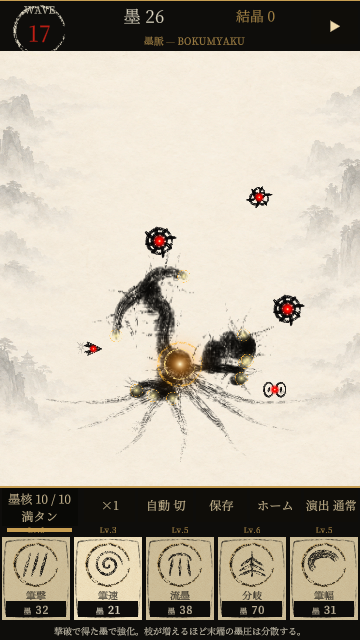
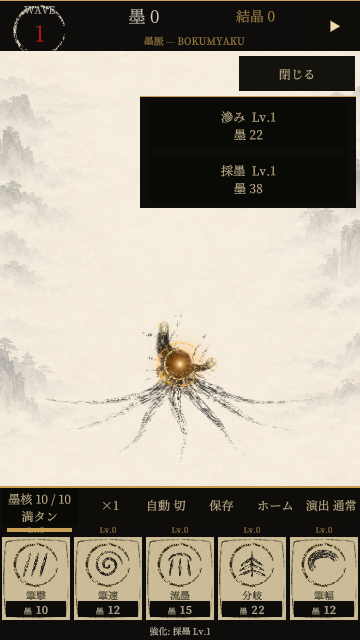
Add enemy satellite cores and restore secondary battle upgrades

diff --git a/UnitySandbox/Assets/BokumyakuPrototype/Presentation/InkBattleWorld.cs b/UnitySandbox/Assets/BokumyakuPrototype/Presentation/InkBattleWorld.cs
@@ -7,7 +7,7 @@ namespace Bokumyaku.Presentation
  // Presentation owns interpolation and VFX clocks; never writes simulation state.
  public sealed class InkBattleWorld : IDisposable
  {
-  sealed class EnemyView { public EnemyState state; public Vector2 previous,current; public double hp; public SpriteRenderer body,eye; public float hit,death; public bool dying,drawn; }
+  sealed class EnemyView { public EnemyState state; public Vector2 previous,current; public double hp; public SpriteRenderer body,eye; public SpriteRenderer[] buds; public float hit,death; public bool dying,drawn; }
   sealed class Effect { public SpriteRenderer renderer; public Vector2 a,b; public float age,life,width; public int type; public Color tint; public bool flash; }
   readonly GameObject root; readonly Camera camera; readonly Material material; readonly MaterialPropertyBlock block=new MaterialPropertyBlock();
   readonly Dictionary<int,EnemyView> enemies=new Dictionary<int,EnemyView>(); readonly List<int> remove=new List<int>();
@@ -47,9 +47,10 @@ namespace Bokumyaku.Presentation
   void Properties(SpriteRenderer r,float hit,float dissolve,float wobble,float phase,bool reduced){block.Clear();block.SetFloat("_Hit",hit);block.SetFloat("_Dissolve",dissolve);block.SetFloat("_Wobble",wobble);block.SetFloat("_Phase",phase);block.SetFloat("_ReducedMotion",reduced?1:0);r.SetPropertyBlock(block);}
   void Release(SpriteRenderer r){r.gameObject.SetActive(false);r.SetPropertyBlock(null);r.transform.localRotation=Quaternion.identity;pool.Push(r);}
   SpriteRenderer Rent(Sprite s,int order){var r=pool.Count>0?pool.Pop():Create(s,order);r.sprite=s;r.enabled=true;r.sortingOrder=order;r.color=Color.white;r.gameObject.SetActive(true);return r;}
+  void ReleaseEnemy(EnemyView v){Release(v.body);Release(v.eye);if(v.buds!=null)foreach(var bud in v.buds)Release(bud);}
   public void Reset(RunSimulator run)
   {
-   foreach(var e in enemies.Values){Release(e.body);Release(e.eye);}enemies.Clear();foreach(var e in effects)Release(e.renderer);effects.Clear();before.Clear();boundRun=run;freeze=shake=0;Deaths=HitFlashes=EffectsCreated=InterpolatedFrames=0;
+   foreach(var e in enemies.Values)ReleaseEnemy(e);enemies.Clear();foreach(var e in effects)Release(e.renderer);effects.Clear();before.Clear();boundRun=run;freeze=shake=0;Deaths=HitFlashes=EffectsCreated=InterpolatedFrames=0;
   }
   public void BeforeTick(RunSimulator run){if(boundRun!=run)Reset(run);before.Clear();foreach(var e in run.Enemies)before.Add(e);foreach(var v in enemies.Values)if(!v.dying)v.previous=v.current;}
   public void AfterTick(RunSimulator run,bool reduced)
@@ -64,11 +65,11 @@ namespace Bokumyaku.Presentation
    {
     liveIds.Add(e.Id);
     Vector2 p=new Vector2((float)e.X,(float)e.Y);
-    if(!enemies.TryGetValue(e.Id,out var v)){v=new EnemyView{state=e,previous=p,current=p,hp=e.Hp,body=Rent(enemySprites[(int)e.Kind],4),eye=Rent(ember,5)};enemies.Add(e.Id,v);}
+    if(!enemies.TryGetValue(e.Id,out var v)){v=new EnemyView{state=e,previous=p,current=p,hp=e.Hp,body=Rent(enemySprites[(int)e.Kind],4),eye=Rent(ember,5)};if(e.Kind==EnemyKind.Splitter||e.Kind==EnemyKind.Boss){v.buds=new SpriteRenderer[3];for(int k=0;k<3;k++)v.buds[k]=Rent(ember,5);}enemies.Add(e.Id,v);}
     if(e.Hp<v.hp){v.hit=.13f;HitFlashes++;}v.hp=e.Hp;v.current=p;v.state=e;
    }
    remove.Clear();foreach(var pair in enemies)if(!pair.Value.dying&&!liveIds.Contains(pair.Key))remove.Add(pair.Key);
-   foreach(int id in remove){Release(enemies[id].body);Release(enemies[id].eye);enemies.Remove(id);}
+   foreach(int id in remove){ReleaseEnemy(enemies[id]);enemies.Remove(id);}
    foreach(var hit in run.Attacks)Attack(hit,run,reduced);
   }
 
@@ -126,9 +127,21 @@ namespace Bokumyaku.Presentation
     if(!frozen||!v.drawn){Size(v.body,p,size,size);Size(v.eye,p,size*.38f,size*.38f);
      if(v.state.Kind==EnemyKind.Fast){var direction=Project(v.current)-Project(v.previous);if(direction.sqrMagnitude>.000001f)v.body.transform.localRotation=Quaternion.Euler(0,0,Mathf.Atan2(direction.y,direction.x)*Mathf.Rad2Deg);}v.drawn=true;}v.body.color=new Color(.025f,.02f,.02f);Properties(v.body,v.hit/.13f,v.death/.45f,reduced?0:.45f,pair.Key*.73f,reduced);
     v.eye.color=new Color(1,1,1,1-v.death/.45f);Properties(v.eye,0,v.death/.45f,0,0,reduced);
+    if(v.buds!=null)
+    {
+     // Texture-local bud positions match the procedural lobe/branch motif.
+     var bodyCenter=(Vector2)v.body.transform.localPosition;
+     for(int k=0;k<3;k++)
+     {
+      bool boss=v.state.Kind==EnemyKind.Boss;float angle=k*Mathf.PI*2/3+(boss?.30f:.4f);
+      float radius=(boss?25f:23f)/96f*size;
+      Size(v.buds[k],bodyCenter+new Vector2(Mathf.Cos(angle),Mathf.Sin(angle))*radius,size*.13f,size*.13f);
+      v.buds[k].color=v.eye.color;Properties(v.buds[k],0,v.death/.45f,0,0,reduced);
+     }
+    }
     if(!paused&&!v.dying&&alpha>0&&alpha<1&&v.previous!=v.current)InterpolatedFrames++;
    }
-   foreach(int id in remove){Release(enemies[id].body);Release(enemies[id].eye);enemies.Remove(id);}
+   foreach(int id in remove){ReleaseEnemy(enemies[id]);enemies.Remove(id);}
    for(int i=effects.Count-1;i>=0;i--)
    {
     var e=effects[i];e.renderer.enabled=!(reduced&&e.flash);e.age+=dt;if(e.age>=e.life){Release(e.renderer);effects.RemoveAt(i);continue;}
@@ -142,6 +155,7 @@ namespace Bokumyaku.Presentation
   public void Dispose(){foreach(var s in ownedSprites)if(s!=null)UnityEngine.Object.Destroy(s);UnityEngine.Object.Destroy(emberTexture);UnityEngine.Object.Destroy(material);UnityEngine.Object.Destroy(root);}
  }
 }
+
 
 
 

diff --git a/UnitySandbox/Assets/BokumyakuPrototype/Presentation/BokumyakuBattleHud.cs b/UnitySandbox/Assets/BokumyakuPrototype/Presentation/BokumyakuBattleHud.cs
@@ -49,6 +49,13 @@ namespace Bokumyaku.Presentation
         BokumyakuGame game; Canvas canvas; RectTransform safe; TMP_FontAsset font; Font sourceFont;
         GameObject ownedEventSystem, modal; TextMeshProUGUI wave, ink, crystals, hp, notice, speed, pause, auto, motion, result, retryLabel;
         UnityEngine.UI.Button retry,repair; UnityEngine.UI.Image hpFill; float nextRefresh; Rect lastSafe; int lastWidth, lastHeight;
+        UnityEngine.UI.Button extraToggle;
+        readonly UnityEngine.UI.Button[] extraCards = new UnityEngine.UI.Button[2];
+        readonly TextMeshProUGUI[] extraLabels = new TextMeshProUGUI[2];
+        GameObject extraPanel; TextMeshProUGUI extraToggleLabel; bool extraOpen;
+        RunSimulator extraRun;
+        static readonly UpgradeKind[] ExtraKinds = { UpgradeKind.Bleed, UpgradeKind.Harvest };
+        static readonly string[] ExtraNames = { "滲み", "採墨" };
         static readonly string[] Names = { "筆撃", "筆速", "流墨", "分岐", "筆幅" };
 
         // Camera rect uses bottom-left normalized coordinates, matching SafeArea anchors.
@@ -111,6 +118,17 @@ namespace Bokumyaku.Presentation
                 cardLevels[i]=Label(bottom.transform,"Level"+i,i*.2f,.67f,(i+1)*.2f,.77f,11,gold);
             }
             notice=Label(bottom.transform,"Notice",.015f,0,.985f,.12f,11,ivory);
+            // A temporary popover keeps the five primary cards and footer controls reachable.
+            extraToggle=Button(safe,"ExtraUpgrades",.66f,.855f,.99f,.915f,"滲み・採墨",()=>{extraOpen=!extraOpen;Refresh();},out extraToggleLabel);
+            var extra=Panel(safe,"ExtraUpgradePanel",.39f,.675f,.99f,.85f); extraPanel=extra.gameObject;
+            extra.raycastTarget=true;
+            for(int i=0;i<ExtraKinds.Length;i++)
+            {
+                int slot=i;
+                float y=i==0?.51f:.03f;
+                extraCards[i]=Button(extra.transform,"Upgrade"+ExtraKinds[i],.03f,y,.97f,y+.46f,"",()=>{game.BuyUpgrade(ExtraKinds[slot]);Refresh();},out extraLabels[i]);
+            }
+            extraPanel.SetActive(false);
             var veil=BokumyakuUiParts.Panel(safe,"ResultVeil",new Vector2(.06f,.42f),new Vector2(.94f,.69f),black); modal=veil.gameObject;
             result=Label(veil.transform,"Result",.04f,.43f,.96f,.96f,22,ivory);
             retry=Button(veil.transform,"Retry",.05f,.07f,.62f,.4f,"再出撃",()=>game.TryStartRun(unchecked(game.Run.Seed+1)),out retryLabel);
@@ -146,6 +164,7 @@ namespace Bokumyaku.Presentation
             if(game==null)return;
             if(lastSafe!=Screen.safeArea||lastWidth!=Screen.width||lastHeight!=Screen.height)RefreshSafeArea();
             canvas.enabled=game.Page==BokumyakuGame.GamePage.Battle;
+            if(!canvas.enabled && extraOpen){extraOpen=false;extraPanel.SetActive(false);}
             if(canvas.enabled && Time.unscaledTime>=nextRefresh){nextRefresh=Time.unscaledTime+.1f;Refresh();}
         }
         static void Text(TextMeshProUGUI target,string value){if(target.text!=value)target.text=value;}
@@ -163,7 +182,21 @@ namespace Bokumyaku.Presentation
                 cardCosts[i].color=run.RunInk>=cost?ivory:new Color(.84f,.79f,.68f);
                 cards[i].interactable=!game.BattleStorageBlocked&&!game.AwaitingStart&&run.State==RunStatus.Running&&!max&&run.RunInk>=cost;
             }
-            bool ended=run.State!=RunStatus.Running;modal.SetActive(ended||game.AwaitingStart);
+            bool ended=run.State!=RunStatus.Running;
+            if(ended||game.AwaitingStart||run!=extraRun)extraOpen=false;
+            extraRun=run;
+            extraToggle.interactable=!ended&&!game.AwaitingStart&&!game.BattleStorageBlocked;
+            if(!extraToggle.interactable)extraOpen=false;
+            Text(extraToggleLabel,extraOpen?"閉じる":"滲み・採墨");
+            extraPanel.SetActive(extraOpen);
+            for(int i=0;i<ExtraKinds.Length;i++)
+            {
+                var kind=ExtraKinds[i];int level=run.UpgradeLevels[(int)kind],cost=run.UpgradeCost(kind);
+                bool max=level>=run.UpgradeMaxLevel(kind);
+                Text(extraLabels[i],ExtraNames[i]+"  Lv."+level+"\n"+(max?"MAX":"墨 "+cost.ToString("N0")));
+                extraCards[i].interactable=extraToggle.interactable&&!max&&run.RunInk>=cost;
+            }
+            modal.SetActive(ended||game.AwaitingStart);
             if(modal.activeSelf)
             {
                 Text(result,game.AwaitingStart?"一滴から、墨脈を育てる。":"WAVE "+run.CompletedWave+"\n撃破 "+run.Kills+"　結晶 "+run.CrystalsReward);
@@ -178,6 +211,7 @@ namespace Bokumyaku.Presentation
         }
     }
 }
+
 
 
 

diff --git a/scripts/UnityAutomation~/ExtraUpgradeCheck.cs b/scripts/UnityAutomation~/ExtraUpgradeCheck.cs
@@ -1,0 +1,10 @@
+using System;using System.IO;using System.Reflection;using System.Collections.Generic;using UnityEngine;using UnityEngine.EventSystems;using Bokumyaku.Presentation;using Bokumyaku.Simulation;
+public static class ExtraUpgradeCheck{
+ public static object Prepare(){var g=UnityEngine.Object.FindFirstObjectByType<BokumyakuGame>();if(!g.SavePath.Contains("ink-qa-"))throw new Exception("Isolated only");g.SetBuild(BuildPreset.Manual);g.TryStartRun(42);g.SetPaused(true);return "Wait one rendered frame, then Run";}
+ public static object Open(){Click("ExtraUpgrades");return "Wait one frame, then Run";}
+ public static object Run(){var g=UnityEngine.Object.FindFirstObjectByType<BokumyakuGame>();if(!g.SavePath.Contains("ink-qa-"))throw new Exception("Isolated only");var hud=UnityEngine.Object.FindFirstObjectByType<BokumyakuBattleHud>();var refresh=typeof(BokumyakuBattleHud).GetMethod("Refresh",BindingFlags.Instance|BindingFlags.NonPublic);var ink=typeof(RunSimulator).GetProperty("RunInk");ink.SetValue(g.Run,50000);var rows=new List<object>();if(GameObject.Find("UpgradeBleed")==null)throw new Exception("Open ExtraUpgrades and wait one rendered frame before Run");for(int i=5;i<7;i++){refresh.Invoke(hud,null);Canvas.ForceUpdateCanvases();int before=g.Run.UpgradeLevels[i],balance=g.Run.RunInk,cost=g.Run.UpgradeCost((UpgradeKind)i);Click(i==5?"UpgradeBleed":"UpgradeHarvest");rows.Add(new{slot=i,passed=g.Run.UpgradeLevels[i]==before+1&&g.Run.RunInk==balance-cost});}ink.SetValue(g.Run,0);refresh.Invoke(hud,null);int level=g.Run.UpgradeLevels[5];Click("UpgradeBleed");rows.Add(new{slot=5,passed=g.Run.UpgradeLevels[5]==level&&g.Run.RunInk==0});File.WriteAllText(Path.GetFullPath("../docs/evidence/extra-upgrade-check.json"),Newtonsoft.Json.JsonConvert.SerializeObject(rows,Newtonsoft.Json.Formatting.Indented));ScreenCapture.CaptureScreenshot(Path.GetFullPath("../docs/evidence/extra-upgrade-panel.png"));return rows;}
+ static void Click(string name){var b=GameObject.Find(name).GetComponent<UnityEngine.UI.Button>();var r=(RectTransform)b.transform;var data=new PointerEventData(EventSystem.current){position=RectTransformUtility.WorldToScreenPoint(null,r.TransformPoint(r.rect.center)),button=PointerEventData.InputButton.Left};var hits=new List<RaycastResult>();EventSystem.current.RaycastAll(data,hits);if(hits.Count==0||hits[0].gameObject.GetComponentInParent<UnityEngine.UI.Button>()!=b)throw new Exception("Blocked "+name);ExecuteEvents.Execute(b.gameObject,data,ExecuteEvents.pointerClickHandler);}
+}
+
+
+

diff --git a/scripts/UnityAutomation~/EnemyBudCheck.cs b/scripts/UnityAutomation~/EnemyBudCheck.cs
@@ -1,0 +1,3 @@
+using System;using System.IO;using System.Reflection;using System.Collections;using UnityEngine;using Bokumyaku.Presentation;using Bokumyaku.Simulation;
+public static class EnemyBudCheck{
+public static object Run(){var g=UnityEngine.Object.FindFirstObjectByType<BokumyakuGame>();if(!g.SavePath.Contains("ink-qa-"))throw new Exception("Isolated only");var flags=BindingFlags.Instance|BindingFlags.NonPublic;var kind=typeof(EnemyState).GetProperty("Kind");kind.SetValue(g.Run.Enemies[0],EnemyKind.Boss);kind.SetValue(g.Run.Enemies[1],EnemyKind.Splitter);var w=(InkBattleWorld)typeof(BokumyakuGame).GetField("battleWorld",flags).GetValue(g);w.Reset(g.Run);g.PresentBattle();var hud=UnityEngine.Object.FindFirstObjectByType<BokumyakuBattleHud>();typeof(BokumyakuBattleHud).GetField("extraOpen",flags).SetValue(hud,false);typeof(BokumyakuBattleHud).GetMethod("Refresh",flags).Invoke(hud,null);var entries=(IDictionary)typeof(InkBattleWorld).GetField("enemies",flags).GetValue(w);int models=0,buds=0;foreach(DictionaryEntry pair in entries){var e=pair.Value;var arr=(SpriteRenderer[])e.GetType().GetField("buds").GetValue(e);if(arr==null)continue;models++;if(arr.Length!=3)throw new Exception("Wrong bud count");foreach(var r in arr){if(!r.gameObject.activeSelf)throw new Exception("Hidden bud");buds++;}}if(models<2)throw new Exception("Missing fixture");ScreenCapture.CaptureScreenshot(Path.GetFullPath("../docs/evidence/enemy-bud-fixture.png"));var result=new{models,buds,passed=true,method="Isolated artificial boss/splitter kind fixture; not natural wave spawn test"};File.WriteAllText(Path.GetFullPath("../docs/evidence/enemy-bud-fixture.json"),Newtonsoft.Json.JsonConvert.SerializeObject(result));return result;}}

diff --git a/docs/STATE.md b/docs/STATE.md
@@ -2,28 +2,21 @@
 更新: 2026-10-23
 
 ## 現状
-- Unity6000.3.26f1 / URP17.3.0 2D Renderer。Brush Lab表示/PNG互換確認済み。
-- 戦場SpriteRenderer、戦闘HUDはuGUI/TMP（筆枠と再利用部品を同じCanvasで構成するため）。メニューはIMGUI。縦戦場は幅100%・高さ68%。
-- 従来30Hz直描画→前/current tick補間。敵5種/6武器/被弾/消失/45ms表示ヒットストップ/演出軽減。SUMI枝/撃破跡はdirty tile部分更新。
-- Runtime/シミュレーション/経済/保存は未変更。研究価格500案はstashに保護。長期曲線凍結・分割計画のみ。
+- Unity6000.3.26f1 / URP17.3.0 2D。Brush Lab表示/PNG互換確認済み。
+- 戦場SpriteRenderer、戦闘uGUI/TMP（筆枠/再利用部品をCanvasで構成）。メニューIMGUI。縦戦場幅100%・高さ68%。
+- 30Hz直描画から位置補間へ。敵5種/6武器/被弾/消失/表示ヒットストップ/演出軽減、SUMI枝/撃破跡dirty tile更新。
+- 日本語HUDは同梱Noto Serif静的TMP。実行60fps要求/終了時復元。Runtime/シミュレーション/経済/保存未変更。価格500案はstash保護。
 
 ## 直近の結果
-- 最新の敵案を反映: 分裂種を3子核の輪郭、ボスを9本の分岐触手へ変更。Unity生成/透過5種確認、一覧画像更新。検証区分: 輪郭生成のみ、戦場の追加確認は未実施。
-- 独立QAのOSフォント依存を修正。同梱Noto Serif静的TMPで28ラベル/表示文字を確認、実行60fps要求・終了時復元を確認。検証区分: 限定QA。実機未検証。
-- 移行漏れの核修復をuGUIへ追加。HP欄に費用/満タン/上限表示。隔離試験で購入・満タン/不足/上限拒否4/4、repair-hud-check.json/png。検証区分: UI限定。
-- 発射/着弾に短い金の光を追加。6武器の短時間Playを完了、貫筆/円相画像を目視。演出軽減で既存閃光6個の非表示を確認（reduced-flash-check.json）。検証区分: 描画限定。
-- 検証区分: 今回は描画限定（コンパイル/隔離Play/画面/突進方向）。実機・新Windowsビルドなし。
-- 赤い敵核を白い中心/赤い滲みの共有スプライトへ。突進型を移動方向へ回転。Wave17の1体で投影後の移動方向と回転が一致。QAはヒットストップを除外。enemy-facing.json / enemy-ember-battle.png。
-- 直近の美術: 太い湾曲枝/下へ張る装飾根/敵の墨塊と棘/金輪/紙札筆縁と価格17pt。5札購入と不足拒否6/6。詳細RENDER_REFRESH.md。
-- 描画移行時: EditMode213/213、HUD操作等8/8、Brush Lab PNG前後SHA256一致。
-- 移行時の360×640・Wave17から3分: 前平均16.83ms/最大112.87ms→後平均16.72ms/最大53.05ms。304撃破/304跡、全面更新0。後続美術変更後の再計測ではない。Editor/60fps目標で実機性能保証なし。
-- Play終了・QA設定復元済み。前後画像/計測JSONはevidence/render-{before,after}-*。
+- 検証区分: 描画/UI限定。Unity接続が一時消失したが同じPIDで復帰、再起動なし。実機/新Windowsビルドなし。
+- 敵案を反映: 分裂種の子核/ボスの分岐触手に赤い副核3個ずつ。隔離人工配置3体・9副核を確認。enemy-bud-fixture.json/png（自然出現試験ではない）。
+- 「滲み・採墨」開閉パネルを追加。2購入/墨減算と不足拒否3/3、31ラベルの表示文字確認。extra-upgrade-check.json/png。パネル開直後の同フレームraycastは不採用、次フレームで実施。
+- 同seed再出撃の閉じ忘れを周回参照判定へ修正。上限/閉じ方の追加操作試験と副核プールの反復確認は残件。
+- 前回まで: 修復4条件、5札購入/不足6条件、追加閃光6個の演出軽減を確認。詳細RENDER_REFRESH.md。
+- 描画移行時EditMode213/213、Brush Lab PNG前後SHA256一致。360×640/3分の前平均16.83ms・最大112.87ms→後16.72ms・53.05ms、全面更新0。後続美術変更後の再計測ではない。
+- Play終了・QA設定復元。Gitに実装/証拠を保存。
 
 ## 次の一手
-1. 新HUDに不足する滲み/採墨の戦闘内購入導線を追加する。参考WAVE37の美術には未達。戦場の構図・背景のコントラスト、攻撃演出の迫力、密集時の判読性を改善。
-2. 実機タップ/ノッチ、同梱フォント実機表示/CopyTexture対応、初回シェーダー待機を確認。撃破跡は周回内表示のみ。
-3. 音の聴感と初週バランスは描画の後。商品完成条件はPRODUCT_COMPLETION.md。
-
-
-
-
+1. 追加強化の上限/開閉/再出撃を検証。美術は参考WAVE37に未達。構図/背景/密集時判読性を改善。
+2. 同梱フォントサイズ削減、実機のタップ/ノッチ/フォント/CopyTexture確認。撃破跡は周回内のみ。
+3. 音の聴感と初週バランスは描画後。商品完成条件PRODUCT_COMPLETION.md。長期曲線凍結・リポジトリ分割は計画のみ。

diff --git a/docs/RENDER_REFRESH.md b/docs/RENDER_REFRESH.md
@@ -52,3 +52,6 @@ ResetInk時に一度だけ7本の先細りの根をSUMI描画。攻撃枝/判定
 
 ### ユーザー敵案の反映
 分裂種の双輪を3子核の輪郭へ、ボスの星形を9本の分岐触手へ変更。提供画像は形状参考のみで切抜き/素材同梱なし。画像内の行動案は新ルールとして採用せず既存シミュレーション維持。EnemySilhouetteCheckで5種生成/透明領域を確認、一覧画像更新。赤い副核と実戦の判読性は残件。
+
+### 副核と追加強化
+分裂種/核樹に3副核を重ね、死亡/Resetで本体と共にプール返却。人工配置3体9個を確認（自然出現/死亡反復の試験ではない）。右上に滲み/採墨パネル追加。2購入と不足拒否、静的TMP31ラベル確認。初回同フレームraycastは未描画状態のため不採用。次フレーム確認で合格。同seed再出撃の閉じ忘れを周回参照比較で修正、上限/開閉の追加検証は残件。
